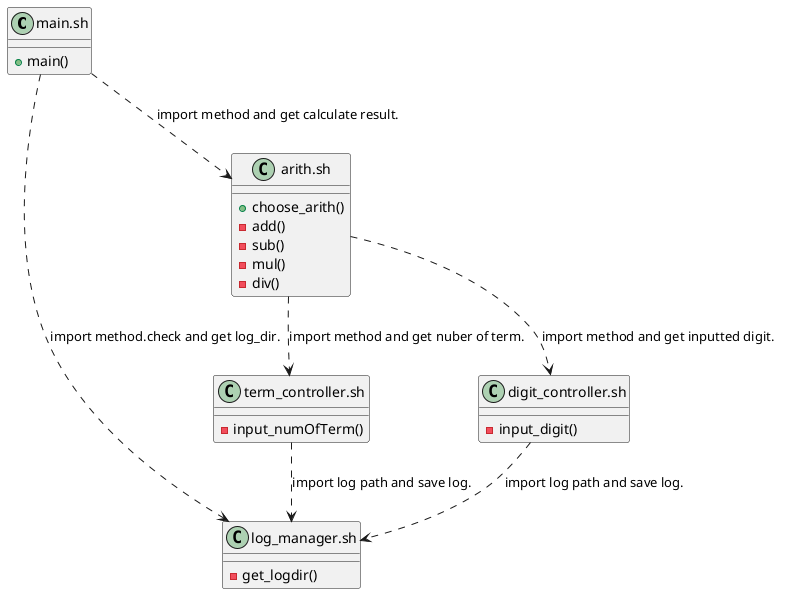
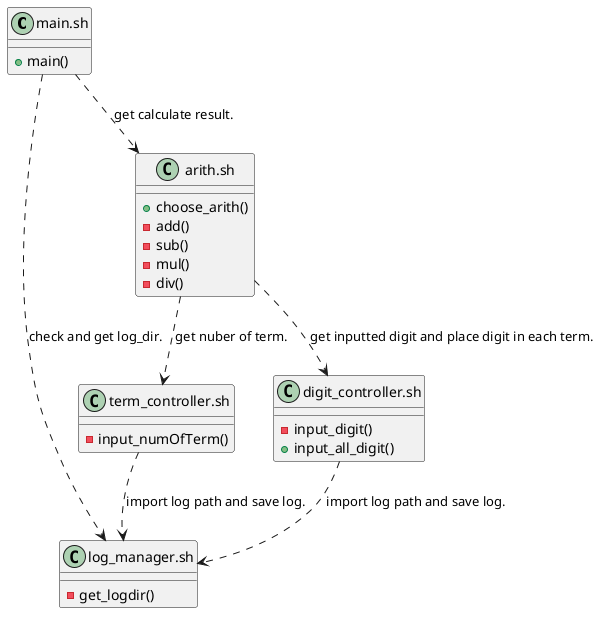
edit README.rd and diagrams

diff --git a/README.md b/README.md
@@ -18,6 +18,7 @@ training basic calclator by while loop
             - if user input 0 exit scripts.
     6. "digit_controller.sh": 
             - control the input digit.
+            - digits are placed in each term.
     7. "arith.sh": 
             - set functions for 4 basic calculate(add, sub, mul, div) and they are include by a finction.
             - user can choose a arithmetic operation using by input a number(1: add, 2: sub, 3: mul, 4:div, 0:end scripts).